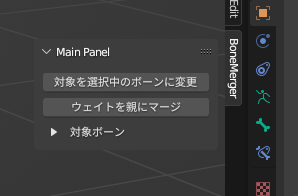
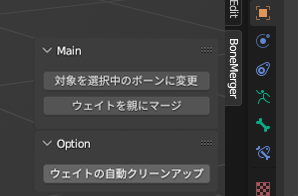
v1.1.0 - Add OptionPanel, Refactored entire program.

diff --git a/MergeBoneWeightToParentOperator.py b/MergeBoneWeightToParentOperator.py
@@ -18,16 +18,16 @@ class MergeBoneWeightToParentOperator(bpy.types.Operator):
 
         # context.active_object が None であれば中止
         if context.active_object is None:
-            print(msg_not_armature)
-            return {'CANCELLED'}
+            log(msg_not_armature)
+            return op_result_cancelled
 
         # アーマチュアを取得
         arm = get_armature_object(context.active_object)
 
         # 選択中のオブジェクトの型チェック
         if arm is None or arm.type != type_armature:
-            print(msg_not_armature)
-            return {'CANCELLED'}
+            log(msg_not_armature)
+            return op_result_cancelled
 
         armature = cast_to_armature(arm.data)
 
@@ -37,17 +37,11 @@ class MergeBoneWeightToParentOperator(bpy.types.Operator):
         # ボーンリストからウェイトをマージするボーンを取得し、配列に格納
         bones: list[bpy.types.Bone] = [bone for bone in armature.bones if bone.name in target_bones]
 
-        # ボーンの階層を再帰的に調査し、階層が深い順にソートする
-        def sort_bones(bone: bpy.types.Bone) -> int:
-            return sort_bones(bone.parent) + 1 if bone.parent else 0
+        # ボーンの階層をもとに、階層が深い順にソートする
+        bones.sort(key=get_bone_depth, reverse=True)
 
-        bones.sort(key=sort_bones, reverse=True)
-
-        # メッシュオブジェクトを取得
-        mesh_objects = [i for i in bpy.data.objects if i.type == 'MESH']
-
-        # メッシュオブジェクトの親(再帰検索)に arm と合致するアーマチュアがあるもののみを抽出
-        mesh_objects = [obj for obj in mesh_objects if obj.parent and get_armature_object(obj.parent) == arm]
+        # arm を親に持つメッシュオブジェクトを取得
+        mesh_objects = [obj for obj in find_objects_by_parent(arm) if obj.type == type_mesh]
 
         # 全てのメッシュオブジェクトに対して処理を行う
         for obj in mesh_objects:
@@ -66,14 +60,15 @@ class MergeBoneWeightToParentOperator(bpy.types.Operator):
                     obj.vertex_groups.new(name=bone.parent.name)
 
                 # obj に 頂点ウェイト合成モディファイアー を追加
-                modifier = obj.modifiers.new(name="BM_"+bone.name, type='VERTEX_WEIGHT_MIX')
+                modifier_name = f"BM_{bone.name}"
+                modifier = obj.modifiers.new(name=modifier_name, type='VERTEX_WEIGHT_MIX')
                 modifier = cast_to_vertex_weight_mix(modifier)
 
                 # modifier が None であれば処理をスキップ
                 if modifier is None:
                     continue
 
-                print(f"Add modifier to {obj.name}, a:{bone.parent.name} -> b:{bone.name}")
+                log(f"Add modifier to {obj.name}, a:{bone.parent.name} -> b:{bone.name}")
                 # modifier のプロパティを設定
                 modifier.vertex_group_a = bone.parent.name
                 modifier.vertex_group_b = bone.name
@@ -91,9 +86,6 @@ class MergeBoneWeightToParentOperator(bpy.types.Operator):
                 # modifier を適用
                 bpy.ops.object.modifier_apply(modifier=modifier.name)
 
-                # modifier を削除
-                # obj.modifiers.remove(modifier)
-
             # 頂点グループから bone を削除
             for bone in bones:
                 if bone.name in obj.vertex_groups:
@@ -105,16 +97,16 @@ class MergeBoneWeightToParentOperator(bpy.types.Operator):
 
         editBones: list[bpy.types.EditBone] = [bone for bone in armature.edit_bones if bone.name in target_bones]
 
-        print(f"Remove bones: {editBones.__len__()}")
+        log(f"Remove bones: {editBones.__len__()}")
         for editBone in editBones:
-            print(f"Remove bone: {editBone.name}")
+            log(f"Remove bone: {editBone.name}")
             armature.edit_bones.remove(editBone)
 
         # オブジェクトモードに変更
         bpy.context.view_layer.objects.active = arm
         bpy.ops.object.mode_set(mode=mode_object)
 
-        return {'FINISHED'}
+        return op_result_finished
 
     def invoke(self, context: bpy.types.Context, event: bpy.types.Event) -> set:
         """メニューから呼び出された際の処理"""

diff --git a/WeightAutoCleanupOperator.py b/WeightAutoCleanupOperator.py
@@ -1,0 +1,85 @@
+import bpy
+from .common import *
+
+
+class WeightAutoCleanupOperator(bpy.types.Operator):
+    """
+    ウェイトの自動クリーンアップを行うオペレーター
+    """
+
+    bl_idname: str = "bone_merger.weight_auto_cleanup"
+    bl_label: str = "ウェイトの自動クリーンアップ"
+
+    def execute(self, context: bpy.types.Context) -> set:
+        """オペレーターの処理"""
+
+        # オブジェクトモードに変更
+        bpy.ops.object.mode_set(mode=mode_object)
+
+        # context.active_object が None であれば中止
+        if context.active_object is None:
+            log(msg_not_armature)
+            return op_result_cancelled
+
+        # アーマチュアを取得
+        arm = get_armature_object(context.active_object)
+
+        # 選択中のオブジェクトの型チェック
+        if arm is None or arm.type != type_armature:
+            log(msg_not_armature)
+            return op_result_cancelled
+
+        # アーマチュアをアクティブにして、非表示状態を取得
+        bpy.context.view_layer.objects.active = arm
+        arm_isHide: bool = bpy.context.view_layer.objects.active.hide_get()
+
+        # アーマチュアを表示
+        bpy.context.view_layer.objects.active.hide_set(False)
+
+        # arm を親に持つメッシュオブジェクトを取得
+        mesh_objects = [obj for obj in find_objects_by_parent(arm) if obj.type == type_mesh]
+
+        # 全てのメッシュオブジェクトに対して処理を行う
+        for obj in mesh_objects:
+
+            log(f"Cleanup: {obj.name}")
+            # obj をアクティブにする
+            bpy.context.view_layer.objects.active = obj
+
+            isHide: bool = bpy.context.view_layer.objects.active.hide_get()
+            bpy.context.view_layer.objects.active.hide_set(False)
+
+            # ウェイトペインとモードに切り替え
+            bpy.ops.object.mode_set(mode=mode_weight_paint)
+
+            # Weight->LimitTotal
+            bpy.ops.object.vertex_group_limit_total(group_select_mode='ALL', limit=4)
+
+            # Weight->NormalizeAll
+            bpy.ops.object.vertex_group_normalize_all(group_select_mode='ALL')
+
+            # Weight->Quantize
+            bpy.ops.object.vertex_group_quantize(group_select_mode='ALL', steps=4)
+
+            # Weight->Clean
+            bpy.ops.object.vertex_group_clean(group_select_mode='ALL', limit=0.0001)
+
+            # オブジェクトモードに変更
+            bpy.context.view_layer.objects.active = obj
+            bpy.ops.object.mode_set(mode=mode_object)
+
+            bpy.context.view_layer.objects.active.hide_set(isHide)
+
+        # オブジェクトモードに変更
+        bpy.context.view_layer.objects.active = arm
+        bpy.ops.object.mode_set(mode=mode_object)
+
+        # アーマチュアの非表示状態を元に戻す
+        bpy.context.view_layer.objects.active.hide_set(arm_isHide)
+
+        return op_result_finished
+
+    def invoke(self, context: bpy.types.Context, event: bpy.types.Event) -> set:
+        """メニューから呼び出された際の処理"""
+
+        return self.execute(context)

diff --git a/common.py b/common.py
@@ -3,10 +3,17 @@ import bpy
 # region: 定数
 dict_key_target_bones = "BoneMerger.TargetBone"
 type_armature = 'ARMATURE'
+type_mesh = 'MESH'
 mode_edit_armature = 'EDIT_ARMATURE'
 mode_edit = 'EDIT'
 mode_pose = 'POSE'
 mode_object = 'OBJECT'
+mode_weight_paint = 'WEIGHT_PAINT'
+op_result_cancelled = {'CANCELLED'}
+op_result_finished = {'FINISHED'}
+icon_tria_down = 'TRIA_DOWN'
+icon_tria_right = 'TRIA_RIGHT'
+prop_show_target_bones = "bone_merger__show_target_bones"
 msg_not_armature = "アーマチュアが選択されていません。"
 # endregion
 
@@ -36,20 +43,47 @@ def cast_to_mesh(data: bpy.types.ID) -> bpy.types.Mesh:
 
 def cast_to_vertex_weight_mix(modifier: bpy.types.Modifier) -> bpy.types.VertexWeightMixModifier:
     """モディファイアを頂点ウェイト合成モディファイアにキャスト"""
-    d = modifier if isinstance(modifier, bpy.types.VertexWeightMixModifier) else None
+    m = modifier if isinstance(modifier, bpy.types.VertexWeightMixModifier) else None
 
-    if d is None:
+    if m is None:
         raise TypeError(f"Invalid type: {modifier}")
 
-    return d
+    return m
 # endregion
+
+
+def log(msg: str) -> None:
+    """ログを出力"""
+
+    print("[Bone Merger] "+msg)
 
 
 def get_armature_object(object: bpy.types.Object) -> bpy.types.Object | None:
     """
     自身がアーマチュアであれば自身を、そうでない場合は再帰的に親がアーマチュアになるまで探索する
     """
+
     obj = object
     while obj is not None and obj.type != type_armature:
         obj = obj.parent
     return obj
+
+
+def find_objects_by_parent(object: bpy.types.Object) -> list[bpy.types.Object]:
+    """
+    指定したオブジェクトの子オブジェクトを再帰的に取得する
+    """
+
+    objects = []
+    for obj in object.children:
+        objects.append(obj)
+        objects.extend(find_objects_by_parent(obj))
+    return objects
+
+
+def get_bone_depth(bone: bpy.types.Bone) -> int:
+    """
+    ボーンの階層を再帰的に調査する
+    """
+
+    return get_bone_depth(bone.parent) + 1 if bone.parent else 0

diff --git a/SaveBoneSelectionInArmatureOperator.py b/SaveBoneSelectionInArmatureOperator.py
@@ -15,21 +15,21 @@ class SaveBoneSelectionInArmatureOperator(bpy.types.Operator):
 
         # context.active_object が None であれば中止
         if context.active_object is None:
-            print(msg_not_armature)
-            return {'CANCELLED'}
+            log(msg_not_armature)
+            return op_result_cancelled
 
         # アーマチュアを取得
         arm = get_armature_object(context.active_object)
 
         # 選択中のオブジェクトの型チェック
         if arm is None or arm.type != type_armature:
-            print("The selected object is not an armature.")
-            return {'CANCELLED'}
+            log("The selected object is not an armature.")
+            return op_result_cancelled
 
         # 現在のモードが ポーズモード か アーマチュア編集モード でなければ中止
         if context.mode not in {mode_edit_armature, mode_pose}:
-            print("The current mode is not POSE or EDIT_ARMATURE.")
-            return {'CANCELLED'}
+            log("The current mode is not POSE or EDIT_ARMATURE.")
+            return op_result_cancelled
 
         # 選択されているボーンを取得
         if context.mode == mode_edit_armature:
@@ -38,12 +38,12 @@ class SaveBoneSelectionInArmatureOperator(bpy.types.Operator):
             bones: list[str] = [bone.name for bone in context.selected_pose_bones]
 
         # 選択されているボーンを保存
-        print("Selected bones:")
+        log("Selected bones:")
         for bone in bones:
-            print(f"  {bone}")
+            log(f"  {bone}")
         arm[dict_key_target_bones] = bones
 
-        return {'FINISHED'}
+        return op_result_finished
 
     def invoke(self, context: bpy.types.Context, event: bpy.types.Event) -> set:
         """メニューから呼び出された際の処理"""

diff --git a/__init__.py b/__init__.py
@@ -1,13 +1,16 @@
 import bpy
+from .common import *
 from .MainPanel import MainPanel
+from .OptionPanel import OptionPanel
 from .SaveBoneSelectionInArmatureOperator import SaveBoneSelectionInArmatureOperator
 from .MergeBoneWeightToParentOperator import MergeBoneWeightToParentOperator
+from .WeightAutoCleanupOperator import WeightAutoCleanupOperator
 
 # アドオンに関する情報
 bl_info = {
     "name": "Bone Merger",
     "author": "神代アオイ (Aoi Kamishiro)",
-    "version": (1, 0),
+    "version": (1, 1, 0),
     "blender": (3, 6, 0),
     "location": "View3D > Tools ",
     "description": "Merge bone weight to parent bone.",
@@ -22,8 +25,10 @@ bl_info = {
 # Blenderに登録するクラス
 classes = [
     MainPanel,
+    OptionPanel,
     SaveBoneSelectionInArmatureOperator,
     MergeBoneWeightToParentOperator,
+    WeightAutoCleanupOperator,
 ]
 
 
@@ -35,7 +40,9 @@ def register() -> None:
     for c in classes:
         bpy.utils.register_class(c)
 
-    print("BoneMerger has been enabled.")
+    bpy.types.Scene.bone_merger__show_target_bones = bpy.props.BoolProperty(name="対象ボーン", default=False)  # type: ignore
+
+    log("addon enabled.")
 
 
 def unregister() -> None:
@@ -46,7 +53,7 @@ def unregister() -> None:
     for c in classes:
         bpy.utils.unregister_class(c)
 
-    print("Addon BoneMerger has been disabled.")
+    log("addon disabled.")
 
 
 # 起動時処理

diff --git a/MainPanel.py b/MainPanel.py
@@ -4,16 +4,14 @@ from .PanelBase import PanelBase
 from .SaveBoneSelectionInArmatureOperator import SaveBoneSelectionInArmatureOperator
 from .MergeBoneWeightToParentOperator import MergeBoneWeightToParentOperator
 
-bpy.types.Scene.show_target_bones = bpy.props.BoolProperty(name="対象ボーン", default=False)  # type: ignore
-
 
 class MainPanel(PanelBase):
     """
     マージを行うボーンを設定するパネル
     """
 
-    bl_idname: str = "bone_merger._PT_.main_panel"
-    bl_label: str = "Main Panel"
+    bl_idname: str = "BONE_MERGER_PT_MAIN_PANEL"
+    bl_label: str = "Main"
 
     def draw(self, context: bpy.types.Context) -> None:
         layout = self.layout
@@ -43,9 +41,9 @@ class MainPanel(PanelBase):
         # foldout の作成
         row = layout.row()
         row.alignment = 'LEFT'
-        row.prop(context.scene, "show_target_bones", icon="TRIA_DOWN" if context.scene.show_target_bones else "TRIA_RIGHT", emboss=False)  # type: ignore
+        row.prop(context.scene, prop_show_target_bones, icon=icon_tria_down if context.scene.get(prop_show_target_bones) else icon_tria_right, emboss=False)
 
-        if context.scene.show_target_bones:  # type: ignore
+        if context.scene.get(prop_show_target_bones):
             box = layout.box()
             for bone in target_bones:
                 box.label(text=bone)

diff --git a/OptionPanel.py b/OptionPanel.py
@@ -1,0 +1,19 @@
+import bpy
+from .common import *
+from .PanelBase import PanelBase
+from .WeightAutoCleanupOperator import WeightAutoCleanupOperator
+
+
+class OptionPanel(PanelBase):
+    """
+    オプション処理を行うパネル
+    """
+
+    bl_idname: str = "BONE_MERGER_PT_OPTION_PANEL"
+    bl_label: str = "Option"
+
+    def draw(self, context: bpy.types.Context) -> None:
+        layout = self.layout
+
+        # ウェイトの正規化を行うボタンを作成
+        layout.operator(WeightAutoCleanupOperator.bl_idname, text=WeightAutoCleanupOperator.bl_label)
